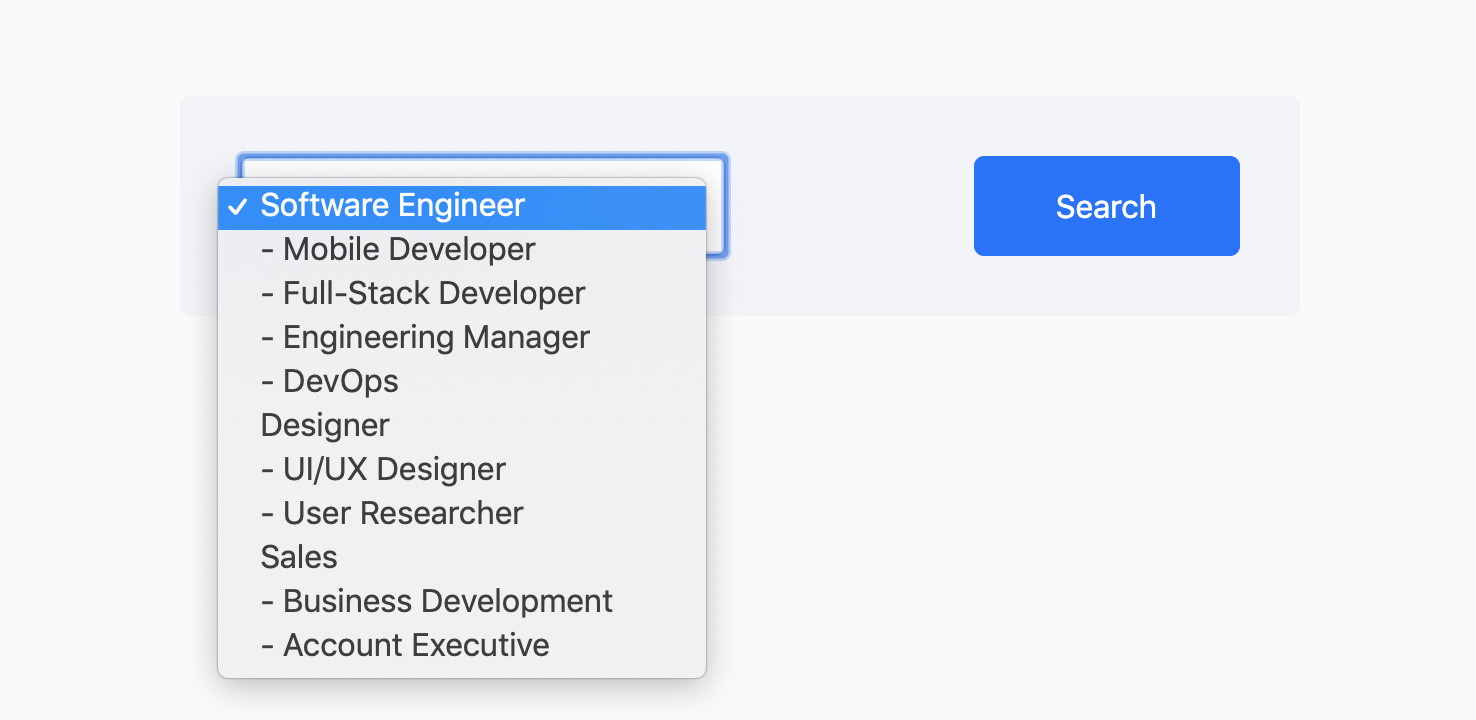
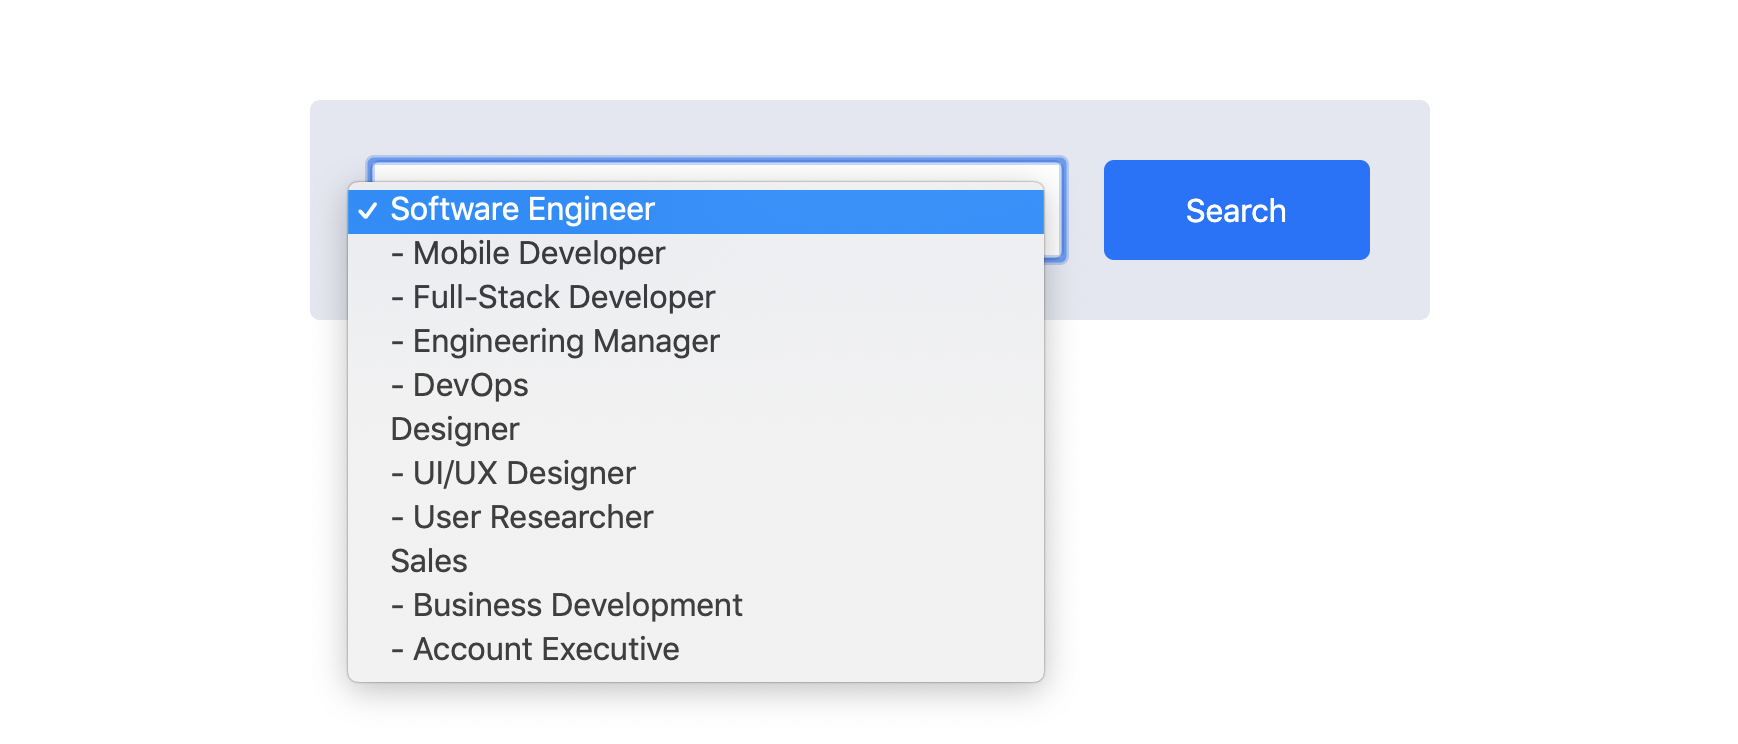
.

Changed region(s): [[0.1247, 0.1833, 0.8415, 0.9778]]

diff --git a/INTERVIEWER_README.md b/INTERVIEWER_README.md
@@ -17,14 +17,13 @@ This question tests multiple frontend skillsets:
 - forms
 
 #### CSS
-- CSS basics
-- positioning and flexbox
+- basics
 - class nomenclature
 
 ### Other
-- design intuition
+- attention to detail
 - prioritization
-- finding online documentation (everyone is going to have to look things up)
+- finding online documentation
 
 ## How to give this question
 
@@ -34,20 +33,29 @@ Reassure the candidate that we are not looking for the most perfect code.
 
 Something about time management -- should we tell the candidate that they have 45 min and to prioritize accordingly?
 
+If they struggle with CSS have them skip styling the select altogether.
+
+#### Extra credit
+
+If they finish early...
+
+- Ask how they would clean up their code
+- Ask for feedback on the question
+
 ## How to evaluate
 
 #### JavaScript
 - Uses form submit handler to trigger `POST` action
 - Knows ES6 syntax (e.g. `const`/`let`, arrow functions)
-- Uses Array.prototype methods (`reduce`, `forEach`, `map`, etc.)
+- Takes advantage of JS language features such as array prototype methods
 - Uses template strings instead of string concatenation
+- Knows that innerHTML is an XSS risk unless properly escaped; uses createElement instead
 
 #### HTML
-- Prefixes selectors used by JS with `js-`
-- Ideal semantic HTML: a `<form>` element wrapping a `<select>` and `<button type="submit">`
+- Ideal semantic HTML: a `<form>` element wrapping a `<select>` and a `<button type="submit">`
 
 #### CSS
-- Reasonable class naming
+- Reasonable class names
 - Knows shorthand (dimensions, border, etc.)
 
 #### General

diff --git a/README.md b/README.md
@@ -12,7 +12,7 @@ You'll be using vanilla JavaScript (no frameworks), HTML, and CSS to build this 
 Your code should:
 - Make a `GET` request to `/roles` retrieve the list of role options.
 - Create the dropdown with the options formatted as depicted in the mock.
-- When the Search button is clicked, make a `POST` request to `/search` with the id of the selected role.
+- When the Search button is clicked, make a `POST` request to `/search` with a payload of `{ roleId }`.
 - Style the UI according to the mocks.
 
 You'll write everything in the Coderpad. You'll see that there's a designated section for CSS, one for HTML, and one for JavaScript.
@@ -31,6 +31,6 @@ api(method: string, path: string, data?: any): Promise<any>
 
 - All text is 16px
 - All corners are rounded by 5px
-- Colors: `#f2f4f7` (light gray background), `#0f6fff` (blue)
-- We've given you the CSS for styling the select element to speed things up a bit
+- Colors: `#e4e7f0` (light gray background), `#0f6fff` (blue), `#acbdd5` (select border)
 - Just eyeball everything else. No need to be pixel perfect -- remember, this is a prototype!
+- Style the select last. The svg for the background indicator is here: https://cl.ly/84375e17a5e9/arrow-down.svg
